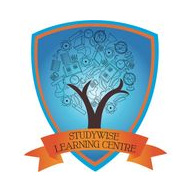
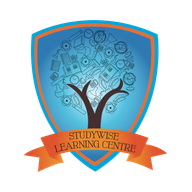
Fit site to real crest (concept 2)

diff --git a/project/src/components/Navigation.tsx b/project/src/components/Navigation.tsx
@@ -16,7 +16,10 @@ const navLinks: NavLink[] = [
   { label: 'Locations', hash: 'locations' }
 ];
 
-const linkStyles = 'text-base text-brand-ink underline-offset-[6px] decoration-1 hover:underline';
+const linkStyles = (active: boolean) =>
+  `text-base text-brand-ink underline-offset-[6px] ${
+    active ? 'underline decoration-2 decoration-brand-orange' : 'decoration-1 hover:underline'
+  }`;
 
 function scrollToId(id: string) {
   const el = document.getElementById(id);
@@ -77,16 +80,17 @@ export function Navigation() {
   };
 
   return (
-    <nav className="bg-white border-b border-brand-ink fixed w-full top-0 z-50">
+    // Total height stays 5.5rem (5px sky bar + row + 1px rule) so the scroll-margin offsets still line up
+    <nav className="bg-white border-t-[5px] border-t-brand-sky border-b border-b-brand-ink fixed w-full top-0 z-50">
       <div className="max-w-[1440px] mx-auto px-6 md:px-10 lg:px-20">
-        <div className="grid grid-cols-[1fr_auto] xl:grid-cols-[1fr_auto_1fr] items-center gap-6 h-[5.5rem]">
+        <div className="grid grid-cols-[1fr_auto] xl:grid-cols-[1fr_auto_1fr] items-center gap-6 h-[calc(5.5rem-6px)]">
           <div className="hidden xl:flex items-center gap-8">
             {navLinks.map((link) => (
               <a
                 key={link.label}
                 href={getLinkHref(link)}
                 onClick={(e) => handleNavClick(link, e)}
-                className={`${linkStyles} ${isLinkActive(link) ? 'underline' : ''}`}
+                className={`${linkStyles(isLinkActive(link))}`}
               >
                 {link.label}
               </a>
@@ -94,14 +98,14 @@ export function Navigation() {
           </div>
 
           <div className="justify-self-start xl:justify-self-center">
-            <Logo variant="light" size={52} subline="Learning Centre · Est. 2010" />
+            <Logo variant="light" size={64} subline="Learning Centre · Est. 2010" />
           </div>
 
           <div className="hidden xl:flex items-center justify-end gap-8">
             <a
               href="/student-portal"
               onClick={handlePortalClick}
-              className={`${linkStyles} ${isPortalActive ? 'underline' : ''}`}
+              className={`${linkStyles(isPortalActive)}`}
             >
               Student portal
             </a>
@@ -129,7 +133,7 @@ export function Navigation() {
                 key={link.label}
                 href={getLinkHref(link)}
                 onClick={(e) => handleNavClick(link, e)}
-                className={`block py-4 border-b border-brand-rule ${linkStyles} ${isLinkActive(link) ? 'underline' : ''}`}
+                className={`block py-4 border-b border-brand-rule ${linkStyles(isLinkActive(link))}`}
               >
                 {link.label}
               </a>
@@ -137,7 +141,7 @@ export function Navigation() {
             <a
               href="/student-portal"
               onClick={handlePortalClick}
-              className={`block py-4 border-b border-brand-rule ${linkStyles} ${isPortalActive ? 'underline' : ''}`}
+              className={`block py-4 border-b border-brand-rule ${linkStyles(isPortalActive)}`}
             >
               Student portal
             </a>

diff --git a/project/src/components/Logo.tsx b/project/src/components/Logo.tsx
@@ -8,27 +8,25 @@ interface LogoProps {
   className?: string;
 }
 
-// Real crest, trimmed from public/final-studywise-logo.jpg by `npm run brand-assets` (211 x 224 px)
+// Real crest with a transparent background, made from public/final-studywise-logo.jpg by `npm run brand-assets` (509 x 540 px)
 const CREST_SRC = '/studywise-crest.png';
-const CREST_RATIO = 211 / 224;
+const CREST_RATIO = 509 / 540;
 
-function Crest({ size, onDark }: { size: number; onDark: boolean }) {
-  const img = (
+export function Crest({ size, className = '' }: { size: number; className?: string }) {
+  const width = Math.round(size * CREST_RATIO);
+  return (
     <img
       src={CREST_SRC}
       alt="Studywise Learning Centre crest"
-      width={Math.round(size * CREST_RATIO)}
+      width={width}
       height={size}
-      className="block flex-shrink-0"
-      style={{ width: Math.round(size * CREST_RATIO), height: size }}
+      className={`block flex-shrink-0 ${className}`}
+      style={{ width, height: size }}
     />
   );
-
-  // The crest has a white background, so on navy it sits on a small white backing
-  return onDark ? <span className="flex-shrink-0 rounded-md bg-white p-1.5">{img}</span> : img;
 }
 
-export function Logo({ variant = 'light', size = 52, subline = 'Learning Centre', className = '' }: LogoProps) {
+export function Logo({ variant = 'light', size = 64, subline = 'Learning Centre', className = '' }: LogoProps) {
   const navigate = useNavigate();
   const isDark = variant === 'dark';
 
@@ -36,14 +34,14 @@ export function Logo({ variant = 'light', size = 52, subline = 'Learning Centre'
     <a
       href="/"
       aria-label="Studywise Learning Centre home"
-      className={`inline-flex items-center gap-3 ${className}`}
+      className={`inline-flex items-center gap-4 ${className}`}
       onClick={(e) => {
         e.preventDefault();
         navigate('/');
         window.scrollTo({ top: 0, behavior: 'smooth' });
       }}
     >
-      <Crest size={size} onDark={isDark} />
+      <Crest size={size} />
       <span className="flex flex-col justify-center leading-none">
         <span className={`font-serif font-semibold text-2xl tracking-tight ${isDark ? 'text-white' : 'text-brand-navy'}`}>
           Studywise

diff --git a/project/src/components/Timeline.tsx b/project/src/components/Timeline.tsx
@@ -1,11 +1,12 @@
 import React from 'react';
 import { timeline } from '../data/timeline';
 
-const ORANGE = '#C4531B';
-const NAVY = '#17325C';
-const MIST = '#F3F8FC';
+// Crest colours (brand.orange, brand.sky, brand.mist)
+const ORANGE = '#E36531';
+const SKY = '#2988BC';
+const MIST = '#EAF4FA';
 
-// Concentric "growth rings": entry n has n rings; the latest is filled orange with white rings
+// Concentric "growth rings": entry n has n rings; past entries are sky blue, the latest is filled orange with white rings
 function GrowthRings({ rings, latest }: { rings: number; latest: boolean }) {
   const outer = 22;
   const radii = Array.from({ length: rings }, (_, k) => (outer * (k + 1)) / rings);
@@ -22,11 +23,11 @@ function GrowthRings({ rings, latest }: { rings: number; latest: boolean }) {
         </>
       ) : (
         <>
-          <circle cx="24" cy="24" r={outer} fill={MIST} stroke={NAVY} strokeWidth="1.5" />
+          <circle cx="24" cy="24" r={outer} fill={MIST} stroke={SKY} strokeWidth="2" />
           {radii.slice(0, -1).map((r) => (
-            <circle key={r} cx="24" cy="24" r={r} fill="none" stroke={NAVY} strokeWidth="1.5" />
+            <circle key={r} cx="24" cy="24" r={r} fill="none" stroke={SKY} strokeWidth="2" />
           ))}
-          <circle cx="24" cy="24" r="2.5" fill={NAVY} />
+          <circle cx="24" cy="24" r="3" fill={SKY} />
         </>
       )}
     </svg>
@@ -41,7 +42,7 @@ export function Timeline() {
     >
       <span
         aria-hidden="true"
-        className="absolute bg-brand-navy left-6 top-6 bottom-6 w-px md:left-0 md:right-0 md:top-6 md:bottom-auto md:w-auto md:h-px"
+        className="absolute bg-[#8DC3E0] left-[23px] top-6 bottom-6 w-[2px] md:left-0 md:right-0 md:top-[23px] md:bottom-auto md:w-auto md:h-[2px]"
       />
       {timeline.map((entry, index) => (
         <li key={entry.year} className="relative flex md:block gap-6">

diff --git a/project/src/pages/About.tsx b/project/src/pages/About.tsx
@@ -6,6 +6,7 @@ import { Timeline } from '../components/Timeline';
 import { WhyStudywise } from '../components/WhyStudywise';
 import { Testimonials } from '../components/Testimonials';
 import { AssessmentCTA } from '../components/AssessmentCTA';
+import { Crest } from '../components/Logo';
 
 const container = 'max-w-[1440px] mx-auto px-6 md:px-10 lg:px-20';
 const bodyText = 'text-lg leading-[1.6] text-brand-slate';
@@ -125,6 +126,25 @@ export function About() {
                 Studywise has been teaching small groups of students in Melbourne's south-east since 2010. Many of our
                 families have been with us for years, some for every stage of school.
               </p>
+            </Reveal>
+          </div>
+        </section>
+
+        <section className="bg-brand-mist py-20 md:py-28 mt-12 md:mt-16">
+          <div className={container}>
+            <Reveal>
+              <div className="grid grid-cols-1 md:grid-cols-[auto_1fr] items-center gap-10 md:gap-16 lg:gap-24 max-w-[1100px]">
+                <Crest size={180} />
+                <div>
+                  <p className="text-sm font-semibold uppercase tracking-[0.15em] text-brand-muted">Our story</p>
+                  <h2 className="mt-4 font-serif font-medium text-brand-navy text-[32px] md:text-[46px] leading-[1.08] tracking-tight max-w-[640px]">
+                    The same crest on our door since 2010.
+                  </h2>
+                  <p className={`mt-5 ${bodyText} max-w-[600px]`}>
+                    Many of the families who first walked past it are still with us, now with their younger children.
+                  </p>
+                </div>
+              </div>
             </Reveal>
           </div>
         </section>

diff --git a/project/src/components/EnrollmentForm.tsx b/project/src/components/EnrollmentForm.tsx
@@ -126,12 +126,12 @@ export function EnrollmentForm() {
               <form onSubmit={handleSubmit} className="space-y-10">
                 {error && (
                   <div className="bg-brand-mist border-t-2 border-brand-orange px-5 py-4" role="alert">
-                    <p className="font-semibold text-brand-orange mb-1">Your enquiry wasn't sent</p>
+                    <p className="font-semibold text-brand-orangeText mb-1">Your enquiry wasn't sent</p>
                     <p className="text-brand-slate text-[15px] leading-[1.6]">{error}</p>
                     <p className="text-brand-slate text-[15px] leading-[1.6] mt-2">
-                      Call <a href="tel:0387747303" className="text-brand-navy underline underline-offset-4">03 8774 7303</a> or{' '}
-                      <a href="tel:0430095076" className="text-brand-navy underline underline-offset-4">0430 095 076</a>, or email{' '}
-                      <a href="mailto:admin@studywiselearning.com.au" className="text-brand-navy underline underline-offset-4 break-all">
+                      Call <a href="tel:0387747303" className="text-brand-navy underline decoration-brand-orange underline-offset-4">03 8774 7303</a> or{' '}
+                      <a href="tel:0430095076" className="text-brand-navy underline decoration-brand-orange underline-offset-4">0430 095 076</a>, or email{' '}
+                      <a href="mailto:admin@studywiselearning.com.au" className="text-brand-navy underline decoration-brand-orange underline-offset-4 break-all">
                         admin@studywiselearning.com.au
                       </a>
                       .

diff --git a/project/tailwind.config.js b/project/tailwind.config.js
@@ -5,15 +5,17 @@ export default {
     extend: {
       colors: {
         brand: {
-          navy: '#17325C', // primary: headings, buttons, footer
-          navyDark: '#0E2243', // hover
-          ink: '#16202E', // strong text, top rules
-          slate: '#3E4A5B', // body text
-          muted: '#5A6575', // captions, small labels
-          sky: '#6FB3E0', // logo and illustration only, never text
-          mist: '#F3F8FC', // alternate section background
+          // Colours taken from the Studywise crest
+          navy: '#16496A', // deep crest blue: headings, buttons, footer
+          navyDark: '#0F3550', // hover
+          ink: '#15222E', // strong text, top rules
+          slate: '#3A4A58', // body text
+          muted: '#56636F', // captions, small labels
+          sky: '#2988BC', // crest blue: thin accent lines and timeline markers only, never small text
+          mist: '#EAF4FA', // pale crest-blue section backgrounds
           photo: '#DCE8F2', // image placeholders
-          orange: '#C4531B', // rare accent only
+          orange: '#E36531', // crest orange: fills, lines and markers
+          orangeText: '#B84A1C', // orange for text (passes contrast)
           rule: '#C9D3DD', // light divider lines
         },
       },

diff --git a/project/src/App.tsx b/project/src/App.tsx
@@ -34,6 +34,33 @@ function HashScroll() {
     };
 
     scrollToHash();
+
+    // On a cold load, web fonts and images can arrive after the first scroll and shift the
+    // layout (e.g. the hero headline re-wraps), so re-align once when they've finished.
+    let cancelled = false;
+    const realign = () => {
+      if (cancelled) return;
+      document.getElementById(id)?.scrollIntoView({ block: "start" });
+    };
+    const fontsReady = document.fonts ? document.fonts.ready : Promise.resolve();
+    const pageLoaded =
+      document.readyState === "complete"
+        ? Promise.resolve()
+        : new Promise((resolve) => window.addEventListener("load", resolve, { once: true }));
+    Promise.all([fontsReady, pageLoaded]).then(() => setTimeout(realign, 50));
+
+    // Stop if the visitor starts scrolling themselves
+    const stop = () => {
+      cancelled = true;
+    };
+    window.addEventListener("wheel", stop, { once: true, passive: true });
+    window.addEventListener("touchmove", stop, { once: true, passive: true });
+
+    return () => {
+      cancelled = true;
+      window.removeEventListener("wheel", stop);
+      window.removeEventListener("touchmove", stop);
+    };
   }, [location.hash, location.key]);
 
   return null;

diff --git a/project/src/components/Footer.tsx b/project/src/components/Footer.tsx
@@ -38,7 +38,7 @@ export function Footer() {
   const currentYear = new Date().getFullYear();
 
   return (
-    <footer className="bg-brand-navy text-[#DCE6EF]">
+    <footer className="bg-brand-navy border-t-[5px] border-brand-orange text-[#DCE6EF]">
       <div className="max-w-[1440px] mx-auto px-6 md:px-10 lg:px-20 pt-20 pb-10 md:pt-24">
         <div className="flex flex-col md:flex-row md:items-end md:justify-between gap-8 pb-12 md:pb-16">
           <p className="font-serif font-medium text-white text-3xl md:text-[36px] leading-[1.15] tracking-tight max-w-xl">
@@ -51,7 +51,7 @@ export function Footer() {
 
         <div className="border-t border-white/15 pt-12 grid grid-cols-1 sm:grid-cols-2 lg:grid-cols-4 gap-10 lg:gap-8">
           <div>
-            <Logo variant="dark" size={56} />
+            <Logo variant="dark" size={80} />
             <p className="mt-5 text-[15px] leading-[1.6] text-[#B9D7EE] max-w-xs">
               Small-group tutoring from Year 1 to VCE in Melbourne's south-east.
             </p>

diff --git a/project/src/components/ProgramList.tsx b/project/src/components/ProgramList.tsx
@@ -21,7 +21,7 @@ export function ProgramList({ exclude }: { exclude?: string }) {
             } ${index === rows.length - 1 ? 'border-b border-b-brand-rule' : ''}`}
           >
             <span className="col-start-1 md:col-start-auto text-base text-brand-muted">{row.years}</span>
-            <span className="col-start-1 md:col-start-auto font-serif font-medium text-brand-navy text-2xl md:text-[30px] leading-tight tracking-tight underline-offset-[6px] decoration-1 group-hover:underline">
+            <span className="col-start-1 md:col-start-auto font-serif font-medium text-brand-navy text-2xl md:text-[30px] leading-tight tracking-tight underline-offset-[6px] decoration-1 decoration-brand-orange group-hover:underline">
               {row.name}
             </span>
             <span className="col-start-1 md:col-start-auto text-[17px] leading-[1.6] text-brand-slate mt-1 md:mt-0">

diff --git a/project/src/components/Hero.tsx b/project/src/components/Hero.tsx
@@ -42,7 +42,7 @@ export function Hero() {
             <img
               src="/1.jpeg"
               alt="The Studywise Clyde North centre at Balla Balla Community Centre"
-              className="w-full h-[260px] md:h-[420px] lg:h-[560px] object-cover rounded-t-[999px] bg-brand-photo"
+              className="w-full h-[260px] md:h-[420px] lg:h-[560px] object-cover rounded-t-[999px] border-[5px] border-brand-sky bg-brand-photo"
             />
             <figcaption className="mt-4 text-sm text-brand-muted">Our Clyde North centre.</figcaption>
           </figure>

diff --git a/project/src/components/Button.tsx b/project/src/components/Button.tsx
@@ -17,7 +17,7 @@ export function Button({
 
   const variants = {
     primary: 'bg-brand-navy text-white rounded hover:bg-brand-navyDark',
-    secondary: 'bg-transparent text-brand-navy underline underline-offset-[6px] hover:text-brand-navyDark',
+    secondary: 'bg-transparent text-brand-navy underline decoration-brand-orange underline-offset-[6px] hover:text-brand-navyDark',
     outline: 'border border-brand-navy text-brand-navy rounded hover:bg-brand-mist',
     // For navy backgrounds
     inverse: 'bg-white text-brand-navy rounded hover:bg-brand-mist'

diff --git a/project/src/pages/ProgramDetail.tsx b/project/src/pages/ProgramDetail.tsx
@@ -104,7 +104,7 @@ export function ProgramDetail() {
                 </p>
                 <Link
                   to="/#locations"
-                  className="inline-block mt-6 text-base font-semibold text-brand-navy underline underline-offset-[6px] hover:text-brand-navyDark"
+                  className="inline-block mt-6 text-base font-semibold text-brand-navy underline decoration-brand-orange underline-offset-[6px] hover:text-brand-navyDark"
                 >
                   See locations and contact details
                 </Link>
